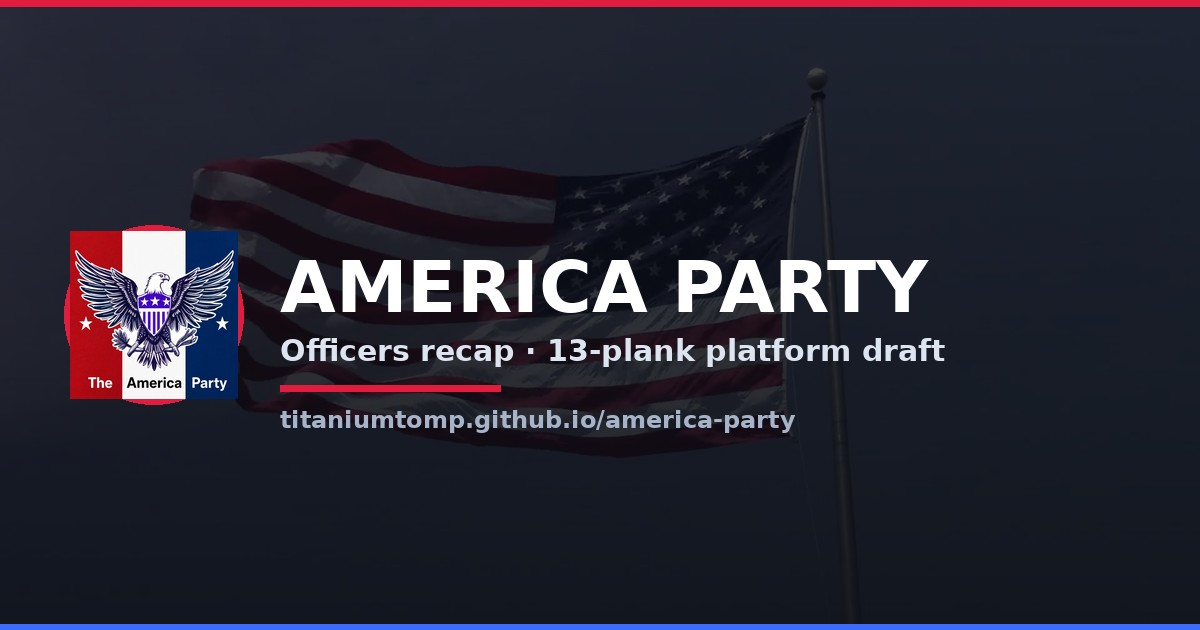
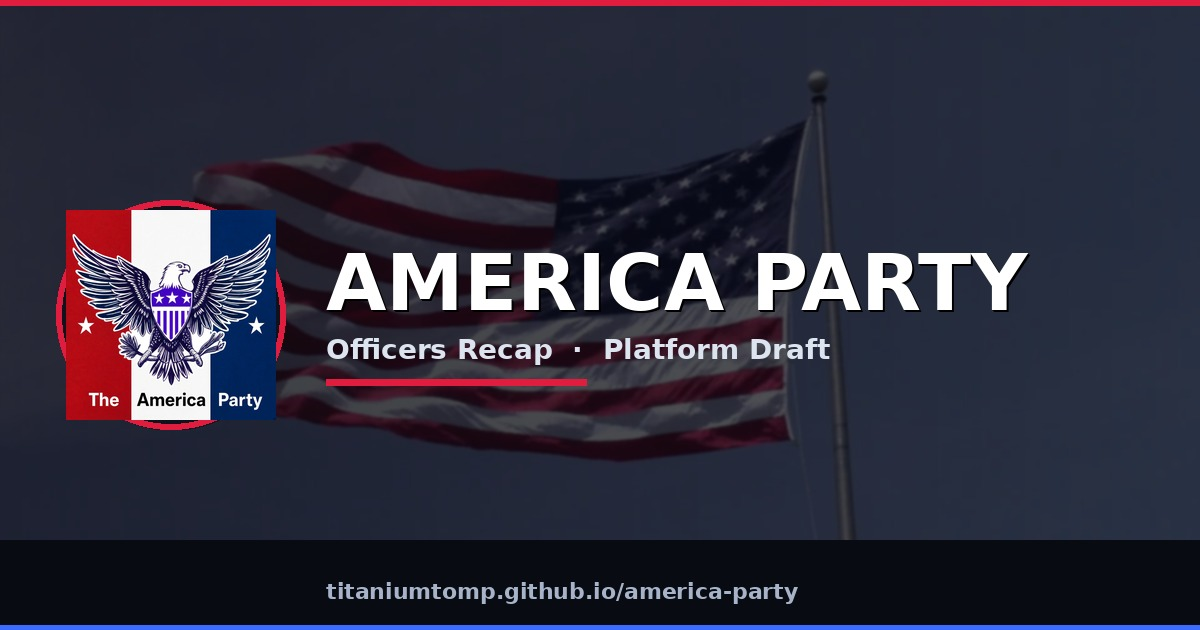
Replace America Party share thumbnail with sharper OG card
Uses the real eagle emblem on a flag backdrop at exact 1200×630 and a cache-busted og image URL.

diff --git a/america-party/index.html b/america-party/index.html
@@ -13,13 +13,13 @@
 <meta property="og:url" content="https://titaniumtomp.github.io/america-party/">
 <meta property="og:title" content="America Party · Officers Recap">
 <meta property="og:description" content="13-plank platform draft, Officers chat summary, charts, and branding from the America Party group.">
-<meta property="og:image" content="https://titaniumtomp.github.io/america-party/assets/og-share.jpg">
+<meta property="og:image" content="https://titaniumtomp.github.io/america-party/assets/og-share-v2.jpg">
 <meta property="og:image:width" content="1200">
 <meta property="og:image:height" content="630">
 <meta name="twitter:card" content="summary_large_image">
 <meta name="twitter:title" content="America Party · Officers Recap">
 <meta name="twitter:description" content="13-plank platform draft, Officers chat summary, charts, and branding from the America Party group.">
-<meta name="twitter:image" content="https://titaniumtomp.github.io/america-party/assets/og-share.jpg">
+<meta name="twitter:image" content="https://titaniumtomp.github.io/america-party/assets/og-share-v2.jpg">
 <style>
 :root{--bg:#0a0e14;--bg2:#10151d;--card:#1a2230;--line:rgba(255,255,255,.09);--ink:#f4f6fb;--mut:#a7b3c9;--red:#e11d3f;--red2:#ff4d6a;--blue:#3b6cff;--trim:#d4b25a;
 --disp:"Archivo Black","Archivo",system-ui,sans-serif;--sans:"Manrope",system-ui,-apple-system,"Segoe UI",Roboto,sans-serif}
